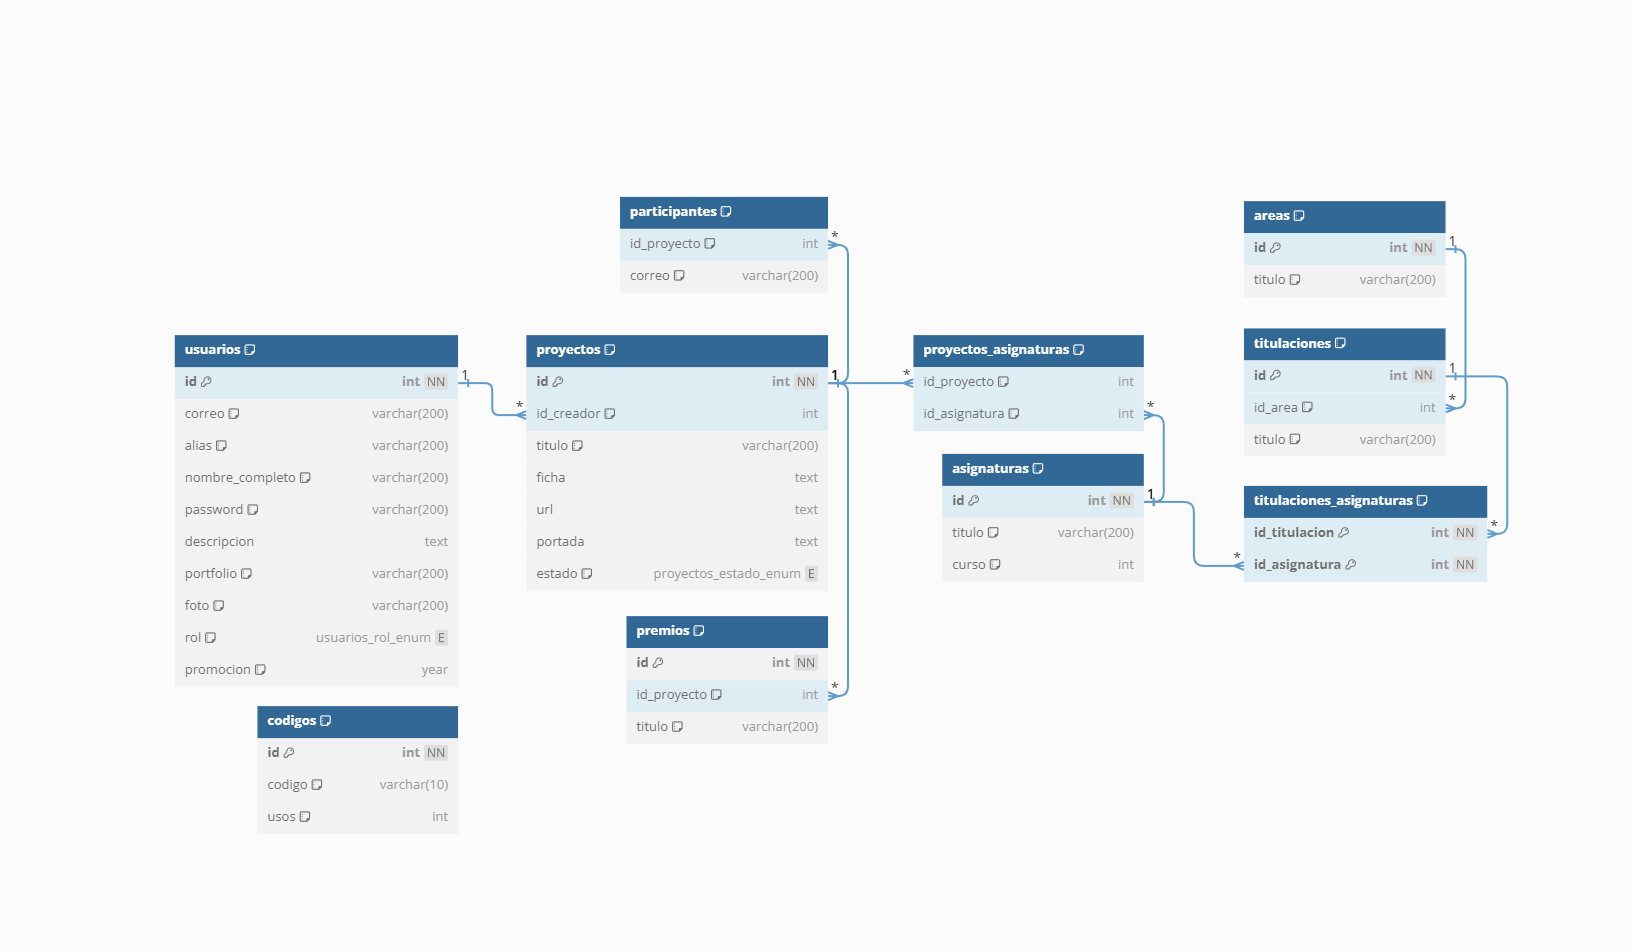
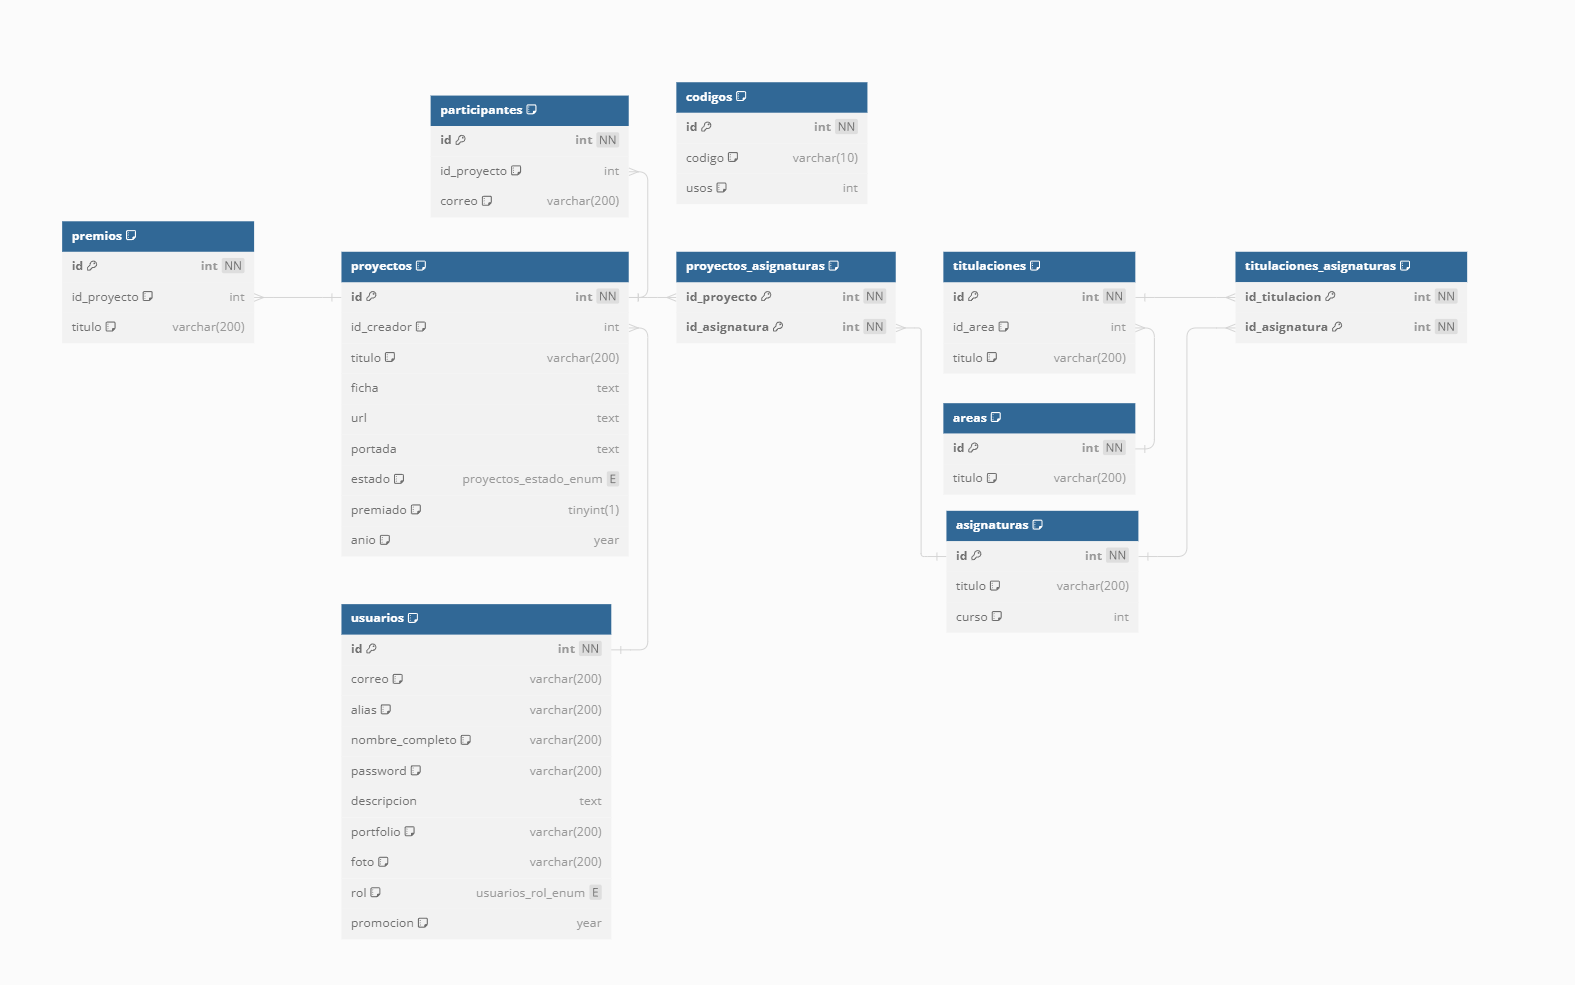
Agrega el campo de anio a los proyectos

diff --git a/source/proyectos3/validators/proyectos.js b/source/proyectos3/validators/proyectos.js
@@ -16,6 +16,7 @@ const create_proyecto = [
     body('asignaturas', 'Type: Array[Int]').default([]).exists().notEmpty().isArray(),
     body('premios', 'Type: Array[String]').default([]).exists().notEmpty().isArray(),
     body('premiado', 'Type: Bool').exists().notEmpty().isBoolean(),
+    body('anio', 'Type: Year (YYYY)').exists().notEmpty().isInt(),
     validate
 ]
 

diff --git a/source/proyectos3/services/proyectos.js b/source/proyectos3/services/proyectos.js
@@ -133,6 +133,7 @@ const create_proyecto = async (proyecto) => {
                 portada: proyecto.portada,
                 premiado: proyecto.premiado,
                 estado: 'pendiente',
+                anio: proyecto.anio,
 
                 participantes: {
                     createMany: {
